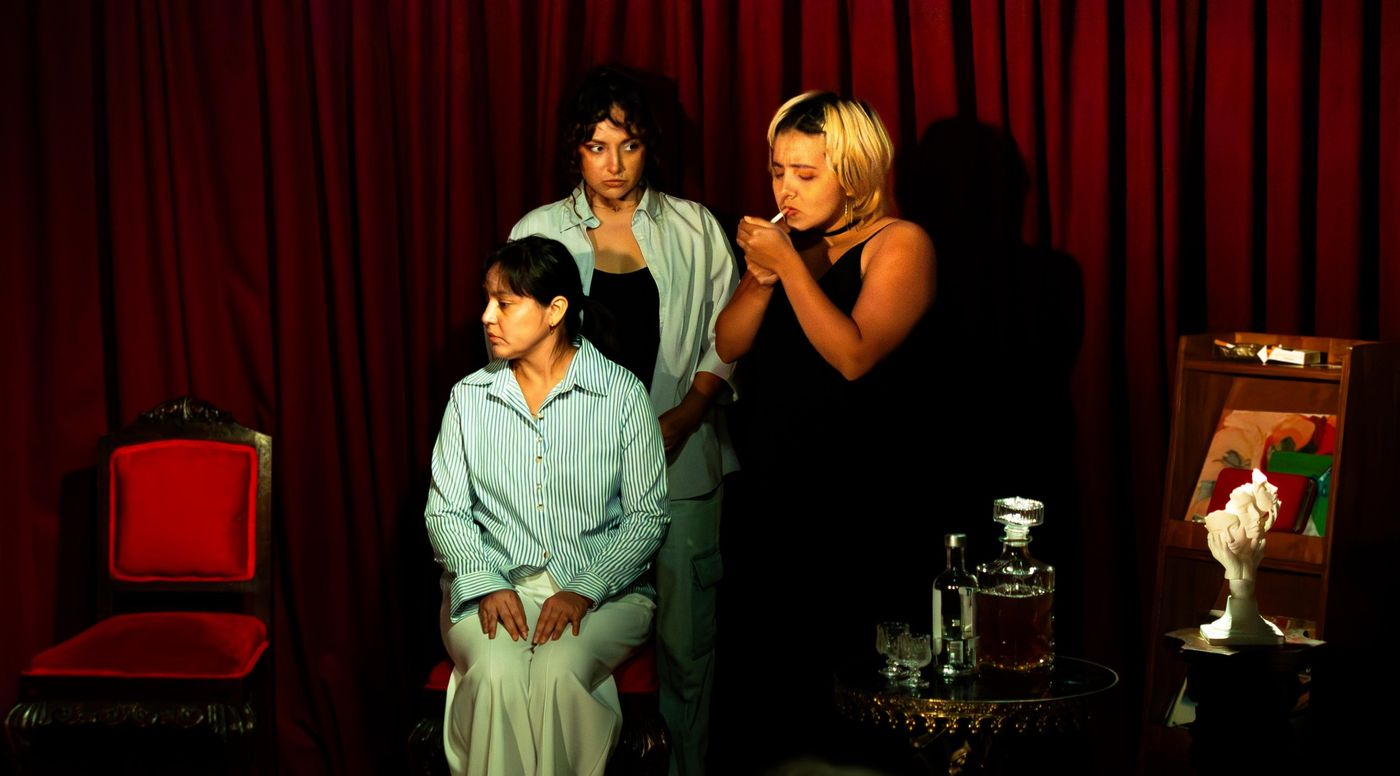
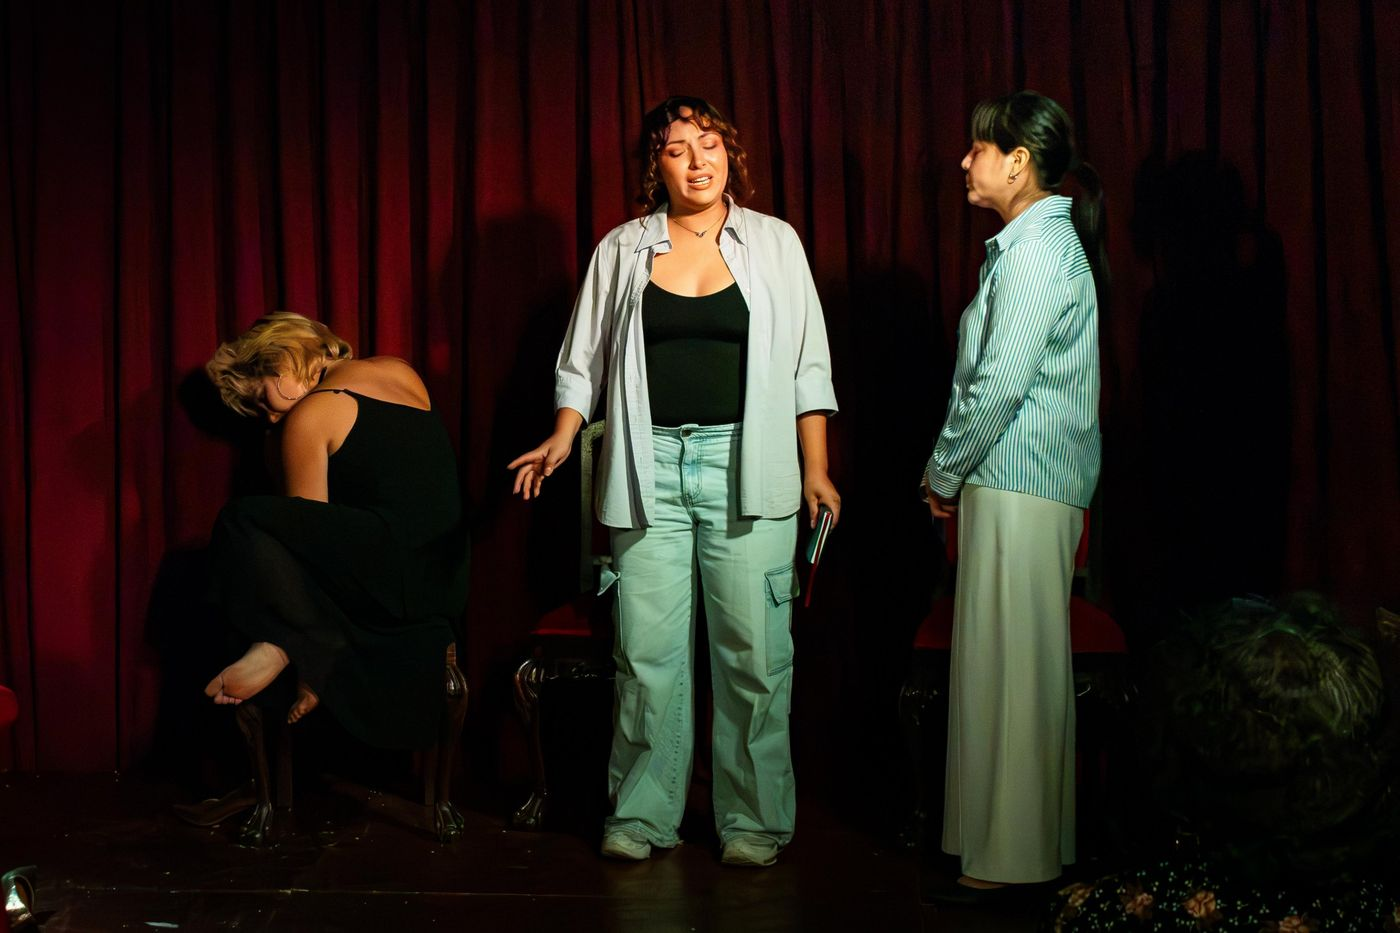
Crítica: cita a las tres actrices; nueva foto principal; crédito Glitch; 31 oct y 1 nov como 'Este fin de semana'
Claude-Session: https://claude.ai/code/session_01QzsqktYJu1yCS2AUgbyC2X

diff --git a/index.html b/index.html
@@ -120,7 +120,7 @@
   @media (max-width: 760px){ .criticas{ grid-template-columns:1fr; } }
   .critica{ background:var(--paper); border-left:4px solid var(--cta); padding:22px 22px 18px; border-radius:3px; display:flex; flex-direction:column; }
   .critica blockquote{ margin:0 0 12px; font-size:1.12rem; line-height:1.5; font-style:italic; color:var(--ink); }
-  .critica blockquote + blockquote{ font-size:1rem; color:var(--sea-deep); }
+  .critica blockquote + blockquote{ font-size:1rem; color:var(--sea-deep); margin-bottom:8px; }
   .critica .fuente{ margin-top:auto; font-size:0.9rem; color:var(--sea); }
   .critica .fuente b{ color:var(--ink); }
   .critica a{ color:var(--cta); font-weight:700; text-decoration:none; white-space:nowrap; }
@@ -370,6 +370,8 @@
   .funciones li[data-estado="disponible"]::after{ content: "Disponible"; color: var(--wa); }
   .funciones li[data-estado="ultimas"]{ border-color: var(--alerta); }
   .funciones li[data-estado="ultimas"]::after{ content: "Quedan pocas entradas"; color: var(--alerta); }
+  .funciones li[data-estado="pronto"]{ border-color: var(--cta); }
+  .funciones li[data-estado="pronto"]::after{ content: "¡Este fin de semana!"; color: var(--cta); font-weight: 700; }
   .funciones li[data-estado="agotado"]{ opacity: .55; }
   .funciones li[data-estado="agotado"] .num{ text-decoration: line-through; }
   .funciones li[data-estado="agotado"]::after{ content: "Sold out"; color: var(--ink); }
@@ -576,7 +578,9 @@ fbq('track', 'PageView');
       <div class="criticas">
         <div class="critica">
           <blockquote>“Bajo la dirección virtuosamente sensible de Akemi Toma.”</blockquote>
-          <blockquote>“Ana Paula Gálvez cautiva desde sus primeras intervenciones por una naturalidad orgánica.” · “Misajel equilibra la aspereza y la vulnerabilidad con un manejo matizado de gran fineza.”</blockquote>
+          <blockquote>“Ana Paula Gálvez cautiva desde sus primeras intervenciones por una naturalidad orgánica.”</blockquote>
+          <blockquote>“Misajel equilibra la aspereza y la vulnerabilidad con un manejo matizado de gran fineza.”</blockquote>
+          <blockquote>“Gaspar vuelve a hacer gala de su notable desempeño escénico.”</blockquote>
           <p class="fuente"><b>Puro Teatro</b> · 25 de octubre de 2026 · <a href="https://puroteatro.pe/blog/una-marea-hacia-el-perdon-tres-historias-del-mar-en-la-vaca-multicolor" target="_blank" rel="noopener">Leer la nota →</a></p>
         </div>
         <div class="critica">
@@ -594,7 +598,7 @@ fbq('track', 'PageView');
       <div class="kicker">En escena</div>
       <h2>Así se vivieron las primeras funciones</h2>
       <div class="galeria">
-        <a href="fotos/escena-01.jpg" data-visor><img src="fotos/escena-01.jpg" alt="Las tres hermanas en escena — Tres historias del mar" loading="lazy"></a>
+        <a href="fotos/escena-01.jpg" data-visor><img src="fotos/escena-01.jpg" alt="Las tres hermanas en una escena de quiebre — Tres historias del mar" loading="lazy"></a>
         <a href="fotos/escena-02.jpg" data-visor><img src="fotos/escena-02.jpg" alt="Una escena entre hermanas — Tres historias del mar" loading="lazy"></a>
         <a href="fotos/escena-03.jpg" data-visor><img src="fotos/escena-03.jpg" alt="Brindis en escena — Tres historias del mar" loading="lazy"></a>
         <a href="fotos/escena-04.jpg" class="vertical" data-visor><img src="fotos/escena-04.jpg" alt="La escultura de los rostros — Tres historias del mar" loading="lazy"></a>
@@ -604,7 +608,7 @@ fbq('track', 'PageView');
         <a href="fotos/escena-08.jpg" class="vertical" data-visor><img src="fotos/escena-08.jpg" alt="El abrazo — Tres historias del mar" loading="lazy"></a>
         <a href="fotos/escena-09.jpg" data-visor><img src="fotos/escena-09.jpg" alt="Saludo final del elenco — Tres historias del mar" loading="lazy"></a>
       </div>
-      <p class="credito">Fotos de las funciones del 24 y 25 de octubre en La Vaca Multicolor.</p>
+      <p class="credito">Fotos de las funciones del 24 y 25 de octubre · Fotografía: <a href="https://www.instagram.com/_glitch.pe/" target="_blank" rel="noopener" style="color:var(--cta);font-weight:700;text-decoration:none;">Glitch (@_glitch.pe)</a></p>
     </div>
   </section>
 
@@ -617,13 +621,14 @@ fbq('track', 'PageView');
         DISPONIBILIDAD: cambia solo la palabra de data-estado en cada fecha.
           disponible  → muestra "Disponible"
           ultimas     → muestra "Quedan pocas entradas" (úsalo cuando queden ~8 o menos)
+          pronto      → muestra "¡Este fin de semana!" en rojo
           agotado     → muestra "Sold out" y atenúa la fecha
       -->
       <ul class="funciones">
         <li data-estado="agotado"><span class="dia">Sáb</span><span class="num">24</span><span class="mes">octubre</span></li>
         <li data-estado="agotado"><span class="dia">Dom</span><span class="num">25</span><span class="mes">octubre</span></li>
-        <li data-estado="disponible"><span class="dia">Sáb</span><span class="num">31</span><span class="mes">octubre</span></li>
-        <li data-estado="disponible"><span class="dia">Dom</span><span class="num">1</span><span class="mes">noviembre</span></li>
+        <li data-estado="pronto"><span class="dia">Sáb</span><span class="num">31</span><span class="mes">octubre</span></li>
+        <li data-estado="pronto"><span class="dia">Dom</span><span class="num">1</span><span class="mes">noviembre</span></li>
         <li data-estado="disponible"><span class="dia">Sáb</span><span class="num">7</span><span class="mes">noviembre</span></li>
         <li data-estado="disponible"><span class="dia">Dom</span><span class="num">8</span><span class="mes">noviembre</span></li>
       </ul>
